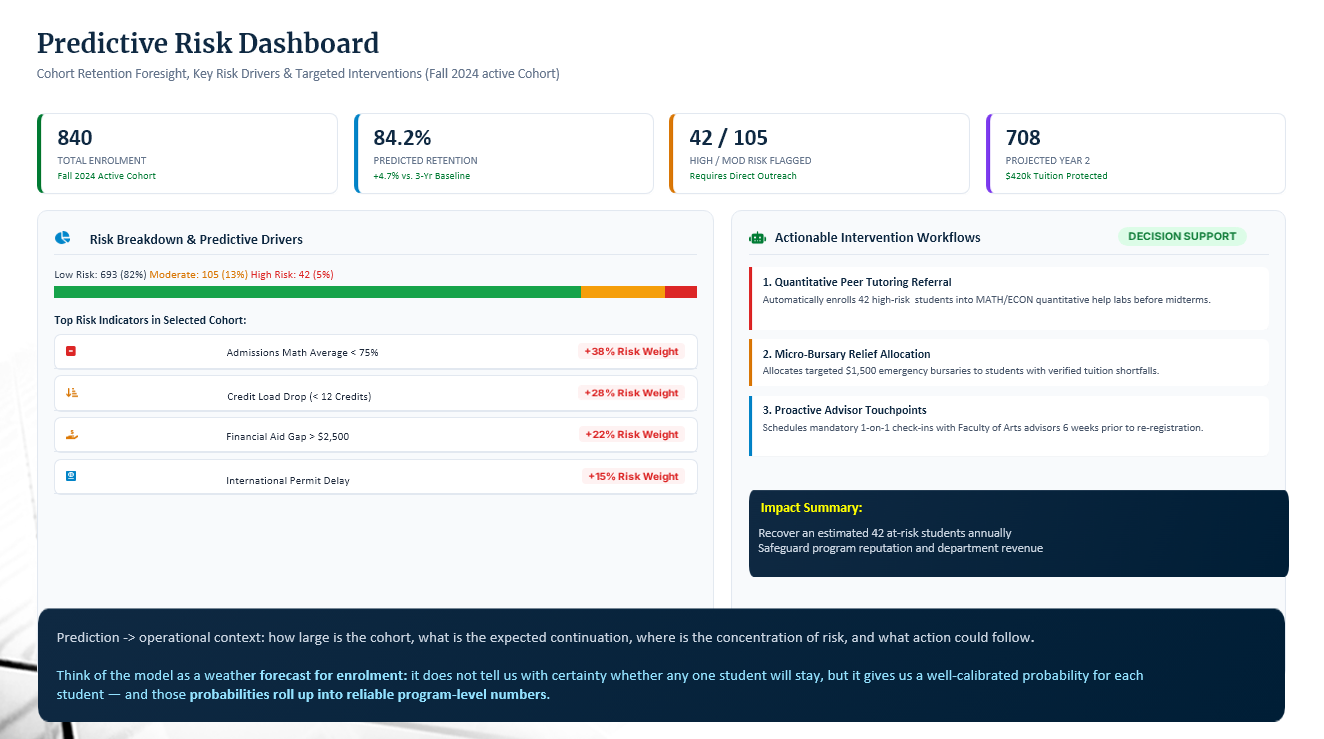
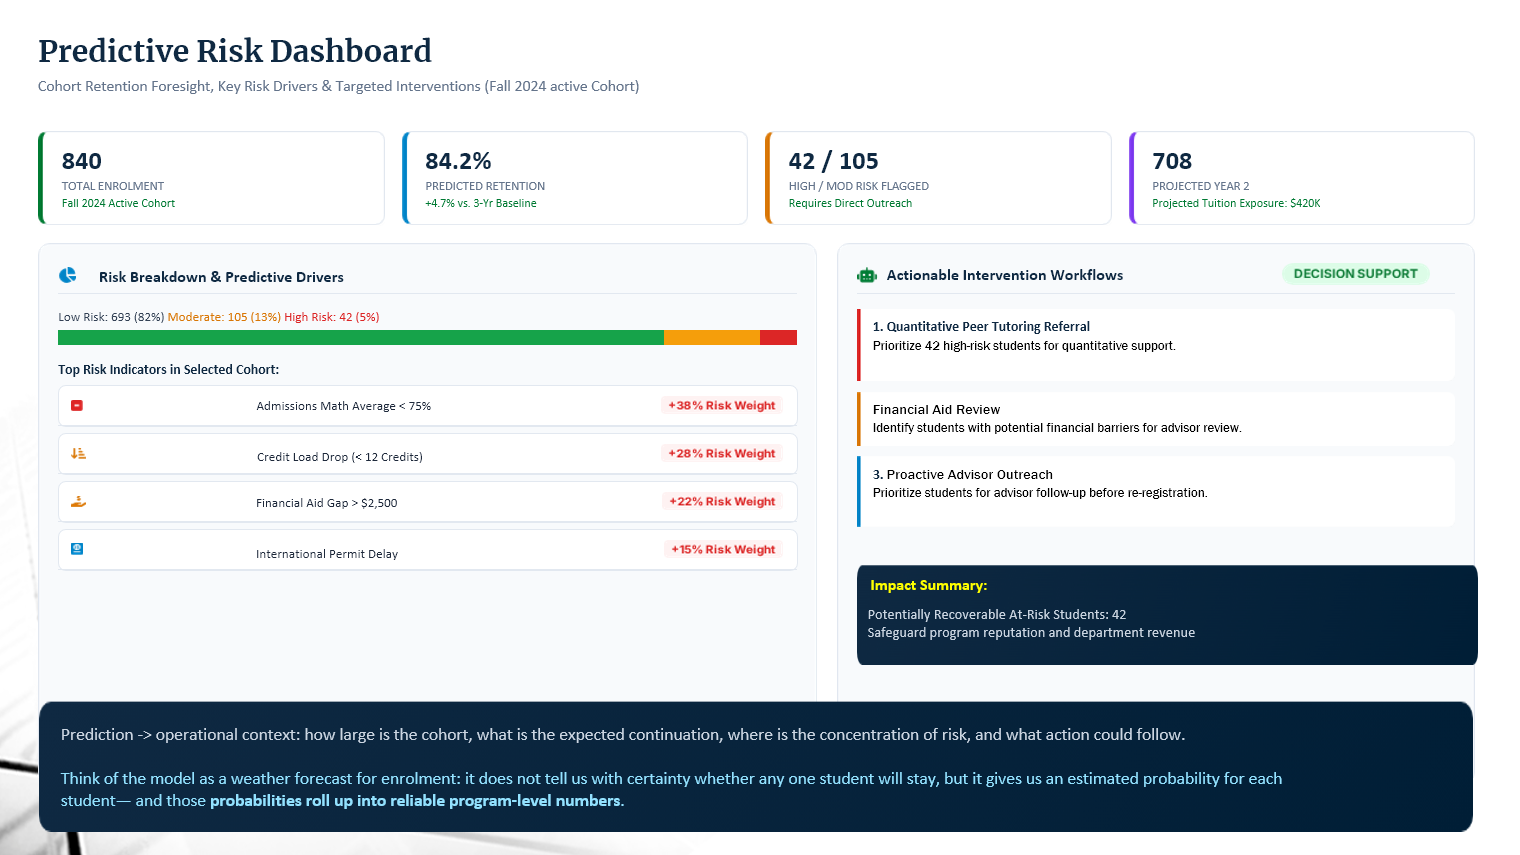
update presentaion slides

diff --git a/README.md b/README.md
@@ -93,6 +93,10 @@ These results are provided without exposing underlying student-level data.
 
 Additional figures may be added as the analysis develops.
 
+### Presentation
+
+A selected presentation illustrating the institutional intelligence architecture, lifecycle data foundation, predictive foresight, and operational decision integration. Full presentation available upon request.
+
 ## Methodology Guide
 
 The detailed methodology is documented in:
